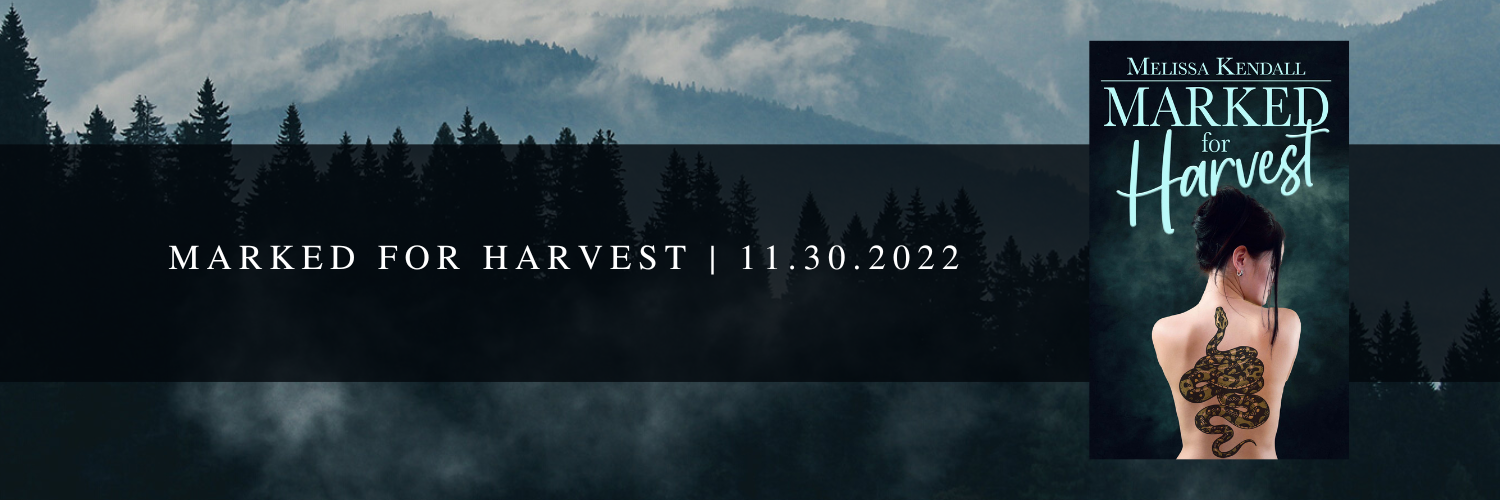
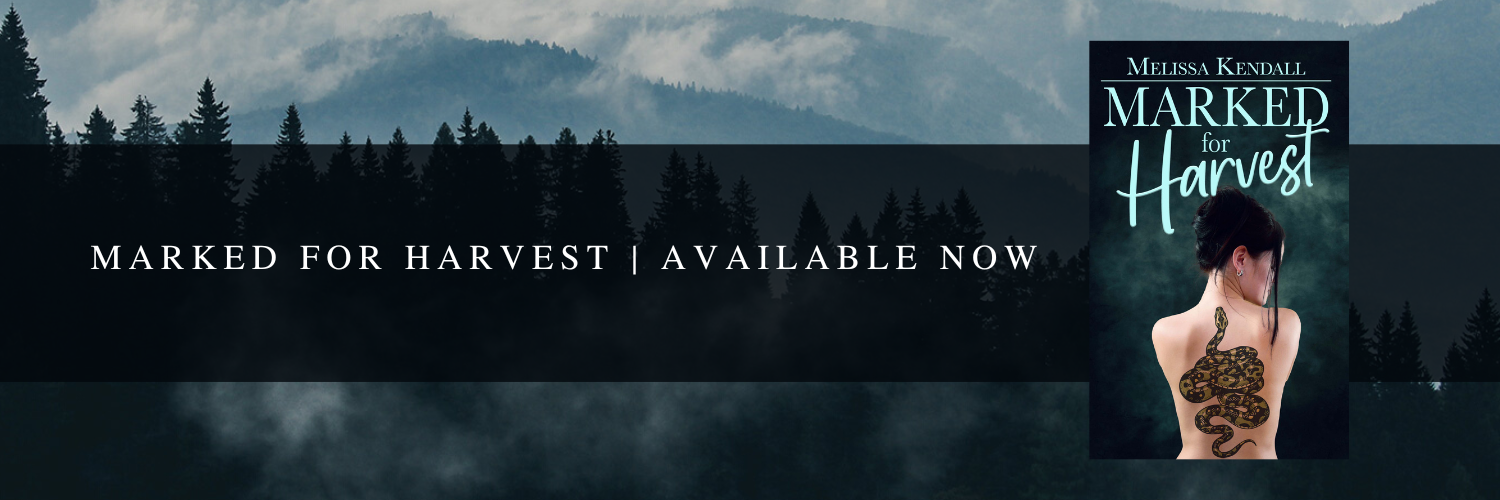
published

Changed region(s): [[0.0613, 0.48, 0.7053, 0.54]]

diff --git a/pages/writing.md b/pages/writing.md
@@ -7,7 +7,7 @@ permalink: /writing
 <table style="text-align:center">
     <tr>
         <td>
-            <a href="https://books2read.com/MarkedForHarvest">Marked for Harvest</a> (11.30.2022)
+            <a href="https://books2read.com/MarkedForHarvest">Marked for Harvest</a>
         </td>
     </tr>
     <tr> 
